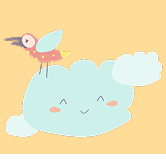
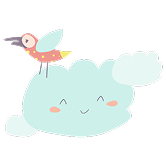
[Sage] Give the Welcome bird a transparent background

diff --git a/docs/session-log.md b/docs/session-log.md
@@ -306,3 +306,9 @@ A dashed navy frame with a #CCD4E5 fill sits behind the Our Story photo on a wid
 On a phone, the Home hero cream continues below the WhatsApp button, with space before the four highlight lines. Our Story has space above the checklist and above Learn More. What We Do is white, and the wave above it is gone. Testimonial avatars and names sit inside the cards, 24px from the card edge. The side cards stay white and the middle card stays yellow, and the quote marks are dark enough to read on both. Contact has a gap between WhatsApp Us and the Phone card.
 
 — Sage (Second)
+
+## 12 Oct 2026 — Welcome bird
+
+The Welcome bird-and-cloud image is 166×166 with a transparent background. The filename is unchanged.
+
+— Sage (Second)
